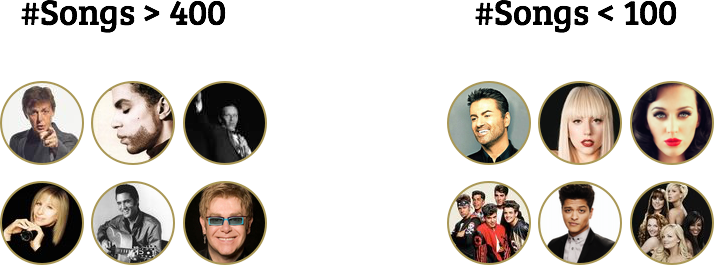
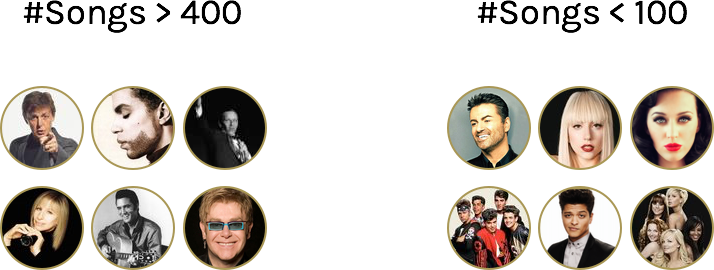
Improved topBottomArtist image with consistent font

diff --git a/css/styles.css b/css/styles.css
@@ -92,7 +92,8 @@ input#locateArtist {
 
 .highlightedArtist {
   opacity: 1;
-  background-color: #FD4C38; }
+  background-color: #FD4C38;
+  border: 2px solid #FFF; }
 
 .normalArtist {
   transition: all 0.3s; }

diff --git a/sass/_vocab_plot_styles.sass b/sass/_vocab_plot_styles.sass
@@ -118,6 +118,7 @@ input#locateArtist
 	@extend .artistContainer
 	opacity : 1
 	background-color : $color_highlight
+	border : 2px solid #FFF
 	// transition : all 0.3s
 
 .normalArtist	
